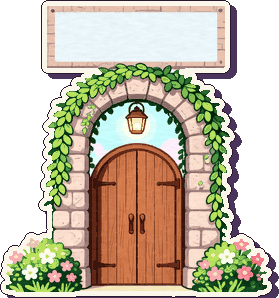
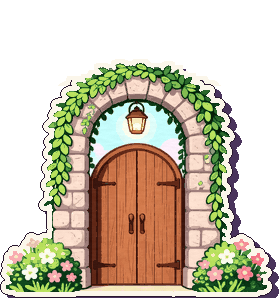
Central Park door: erase the painted signboard instead of cropping through the arch
The arch's leaves rise into the board, so no crop line removes one without cutting the other.
scripts/clear-door-sign.py floods the board out through every non-leaf colour, drops leftover
specks and redraws the sticker edge along the exposed top. The door scene no longer crops it.

Changed region(s): [[0.1434, 0.0, 0.8602, 0.2718], [0.7168, 0.0906, 0.7455, 0.1208]]

diff --git a/js/hq.js b/js/hq.js
@@ -375,7 +375,7 @@
 
   // Each door painting carries a blank signboard on top. This is how many rows of the art to leave off so it is not drawn.
   const DOOR_SIGN = {
-    'newyork/centralpark': 79, 'newyork/brooklyn': 70, 'chicago/loop': 66, 'chicago/lincolnpark': 60, 'chicago/wickerpark': 68,
+    'newyork/centralpark': 0, 'newyork/brooklyn': 70, 'chicago/loop': 66, 'chicago/lincolnpark': 60, 'chicago/wickerpark': 68,
     'dc/georgetown': 62, 'naples/harbor': 60, 'naples/center': 48, 'naples/hillside': 72,
     'california/downtown': 74, 'california/beach': 68, 'california/bungalows': 66,
   };

diff --git a/scripts/clear-door-sign.py b/scripts/clear-door-sign.py
@@ -1,0 +1,53 @@
+"""Erase a door painting's blank signboard when a straight crop would also cut the doorway (Central Park's arch rises into it).
+
+Floods out the board from its top rows through every non-leaf colour, stopping at row LIMIT, drops leftover specks,
+then redraws the paper sticker edge (cream border, ink shadow) along the newly exposed top.
+    python3 scripts/clear-door-sign.py IN.png OUT.png
+"""
+import sys
+from collections import deque
+from PIL import Image, ImageFilter, ImageChops
+src, out = sys.argv[1], sys.argv[2]
+im = Image.open(src).convert('RGBA'); W, H = im.size; px = im.load()
+LIMIT = 80  # nothing below this row is touched by the flood
+leafy = lambda r, g, b: g > r + 10 and g > b + 10
+gone = set(); q = deque((x, y) for y in range(56) for x in range(W) if px[x, y][3] > 0)
+gone.update(q)
+while q:
+    x, y = q.popleft()
+    for nx, ny in ((x+1, y), (x-1, y), (x, y+1), (x, y-1)):
+        if 0 <= nx < W and 0 <= ny < LIMIT and (nx, ny) not in gone:
+            r, g, b, a = px[nx, ny]
+            if a > 0 and not leafy(r, g, b):
+                gone.add((nx, ny)); q.append((nx, ny))
+for x, y in gone: px[x, y] = (0, 0, 0, 0)
+# Strays: small opaque islands left above the arch once the sign is gone.
+seen = set()
+for y0 in range(LIMIT):
+    for x0 in range(W):
+        if px[x0, y0][3] == 0 or (x0, y0) in seen: continue
+        comp, q = [(x0, y0)], deque([(x0, y0)]); seen.add((x0, y0))
+        while q:
+            x, y = q.popleft()
+            for nx, ny in ((x+1, y), (x-1, y), (x, y+1), (x, y-1), (x+1, y+1), (x-1, y-1), (x+1, y-1), (x-1, y+1)):
+                if 0 <= nx < W and 0 <= ny < H and (nx, ny) not in seen and px[nx, ny][3] > 0:
+                    seen.add((nx, ny)); comp.append((nx, ny)); q.append((nx, ny))
+        if len(comp) < 60:
+            for x, y in comp: px[x, y] = (0, 0, 0, 0)
+            print('stray', len(comp), x0, y0)
+# Strays: tiny opaque specks left above the arch.
+a = im.getchannel('A')
+# Redraw the sticker edge along the cleared top: cream border, then the ink shadow offset down-right.
+body = a.point(lambda v: 255 if v > 0 else 0)
+border = body.filter(ImageFilter.MaxFilter(9))          # 4 px ring
+shadow = Image.new('L', im.size, 0); shadow.paste(border, (3, 4))   # shifted, no wrap-around
+ring = ImageChops.subtract(border, body)
+shad = ImageChops.subtract(ImageChops.subtract(shadow, border), Image.new('L', im.size, 0))
+top = Image.new('L', im.size, 0); top.paste(255, (0, 0, W, LIMIT + 6))
+ring = ImageChops.multiply(ring, top); shad = ImageChops.multiply(shad, top)
+cream = Image.new('RGBA', im.size, (251, 246, 234, 255)); ink = Image.new('RGBA', im.size, (74, 52, 92, 255))
+outimg = Image.new('RGBA', im.size, (0, 0, 0, 0))
+outimg.paste(ink, (0, 0), shad); outimg.paste(cream, (0, 0), ring)
+outimg.alpha_composite(im)
+outimg.save(out)
+print('removed', len(gone))
